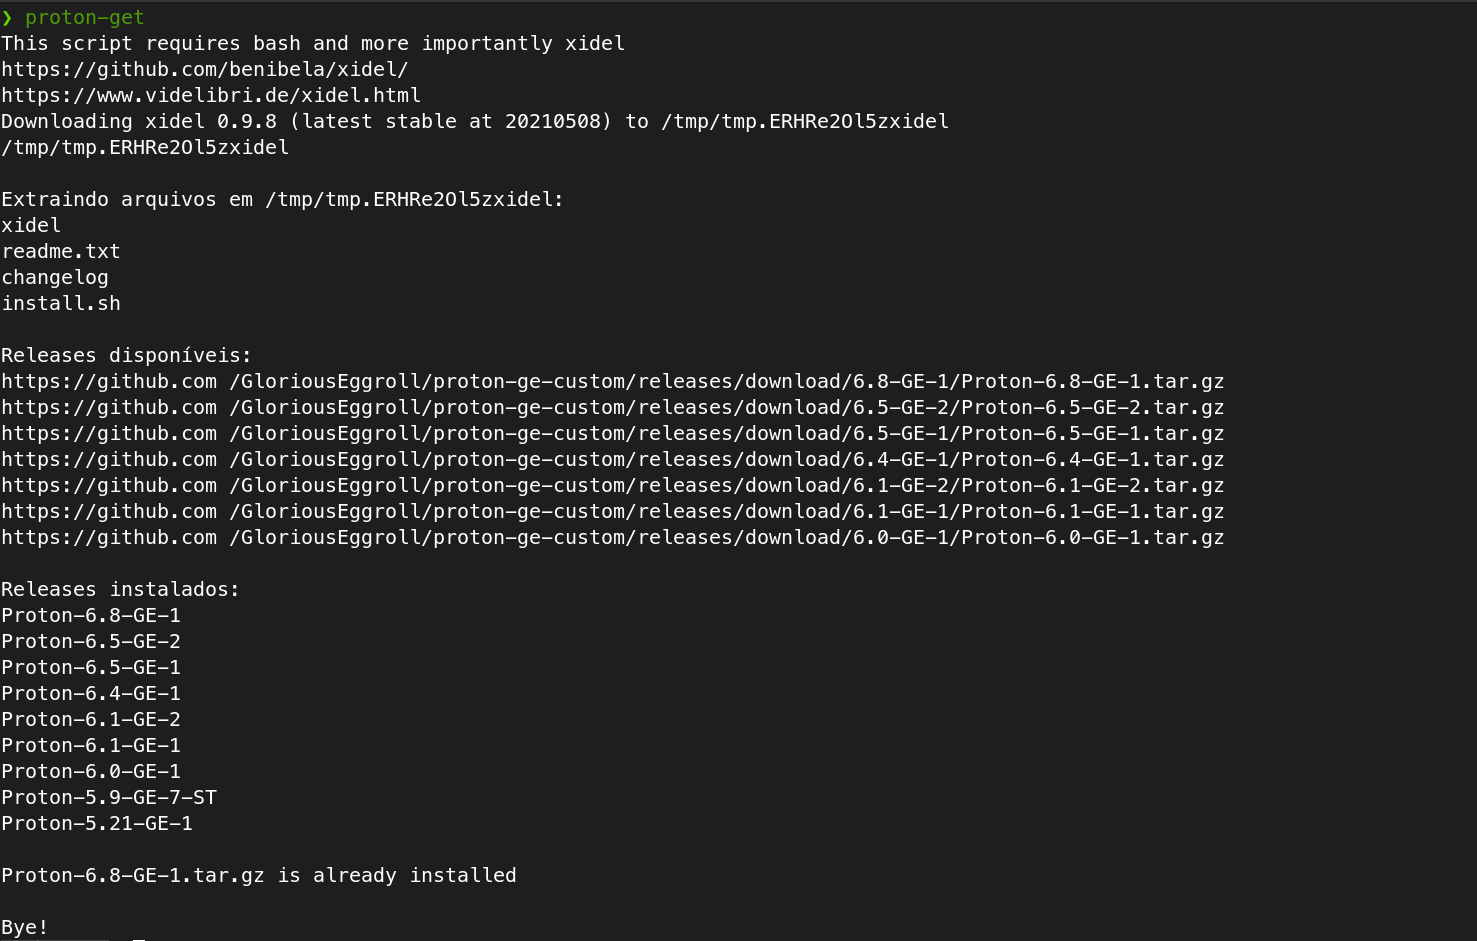
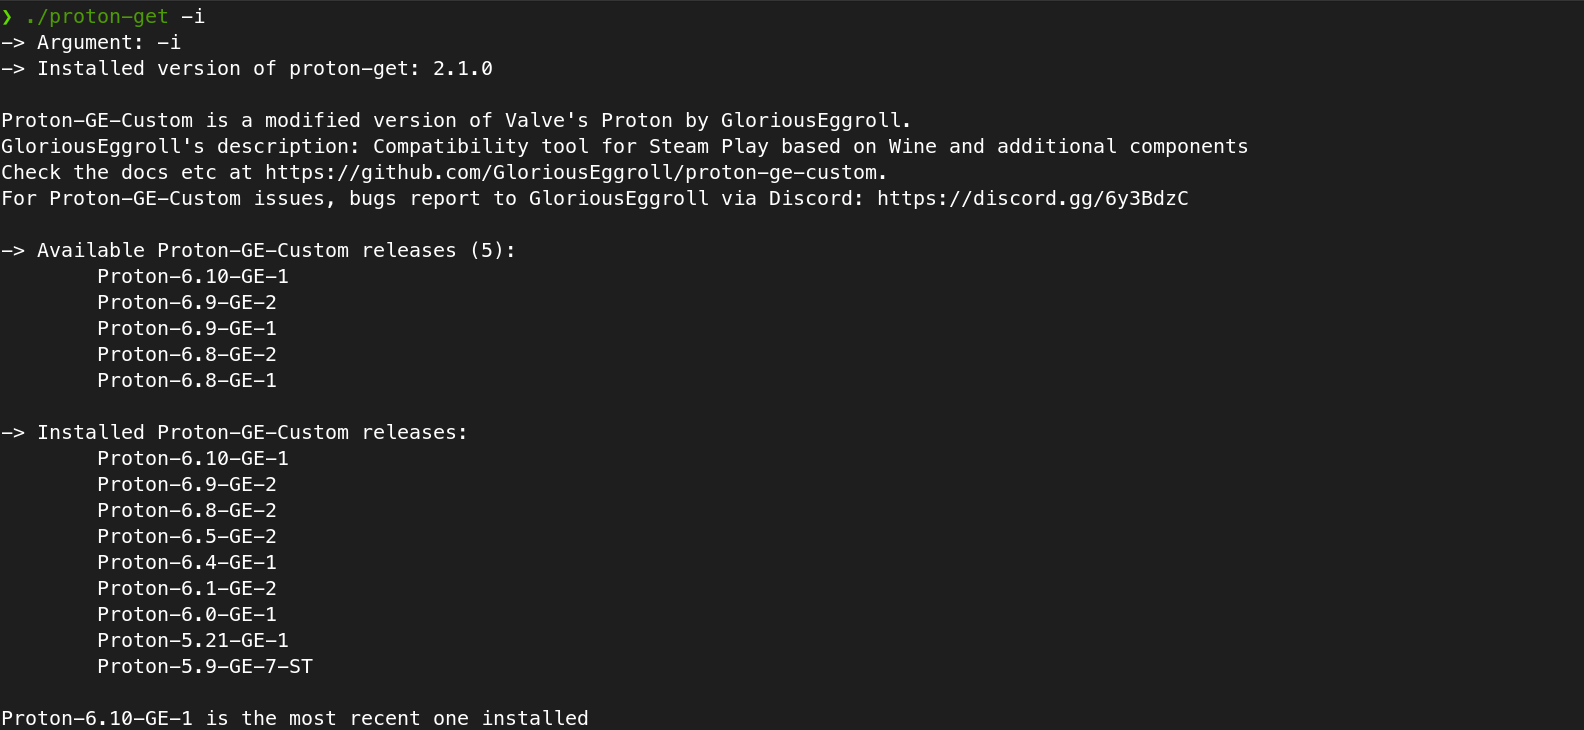
Functions and variables names refactor; New sample image; Updated README.md to reflect the changes; Added -c, --check to just check for a new Proton-GE-Custom;

Changed region(s): [[0.0, 0.0, 0.8409, 0.9342], [0.0, 0.9644, 0.3737, 1.0]]

diff --git a/README.md b/README.md
@@ -16,7 +16,7 @@ To install it. Clone, get into its folder and run ./setup.sh.:
 ❯ cd proton-get
 ❯ ./setup.sh
 ```
-### Also install Xidel
+### Install with Xidel
 If you wish to install xidel too, not just use it from the temporary directory, add "1" as a parameter for setup.sh
 
 ```
@@ -25,28 +25,25 @@ If you wish to install xidel too, not just use it from the temporary directory, 
 ❯ ./setup.sh 1
 ```
 
-## Usage
 As setup.sh will install the proton-get into *$HOME/.local/bin* and make it executable. If it is in your user's **$PATH** variable, it will be executed from any place.
-```
-❯ proton-get
-```
-### PATH
+### The PATH variable
 
 The executables will be placed in *$HOME/.local/bin*, so after the **setup.sh** install them, the reopening of the terminal window will enable them.
+## Usage
+To check and install the newest version or Proton-GE-Custom use -i or --install:
+```
+❯ proton-get -i
+```
+To check for a new version of proton-get use -c --check:
+```
+❯ proton-get -c
+```
 
-## Parameters for proton-get
+### Parameters for proton-get
+```
+-c or --check will just check for a new version of Proton-GE-Custom
+-i or --install will download and extract Proton-GE-Custom
 -n or --dryrun  will run proton-get without downloading and installing anything
-```
-proton-get -n
-proton-get --dryrun
-```
--u or --update will check and install the lastest version of proton-get
-```
- proton-get -u
- proton-get --update
- ```
+-u or --update will check and install the latest version of proton-get
 -v or --version will show the current proton-get version
-```
-proton-get -v
-proton-get --version
 ```
